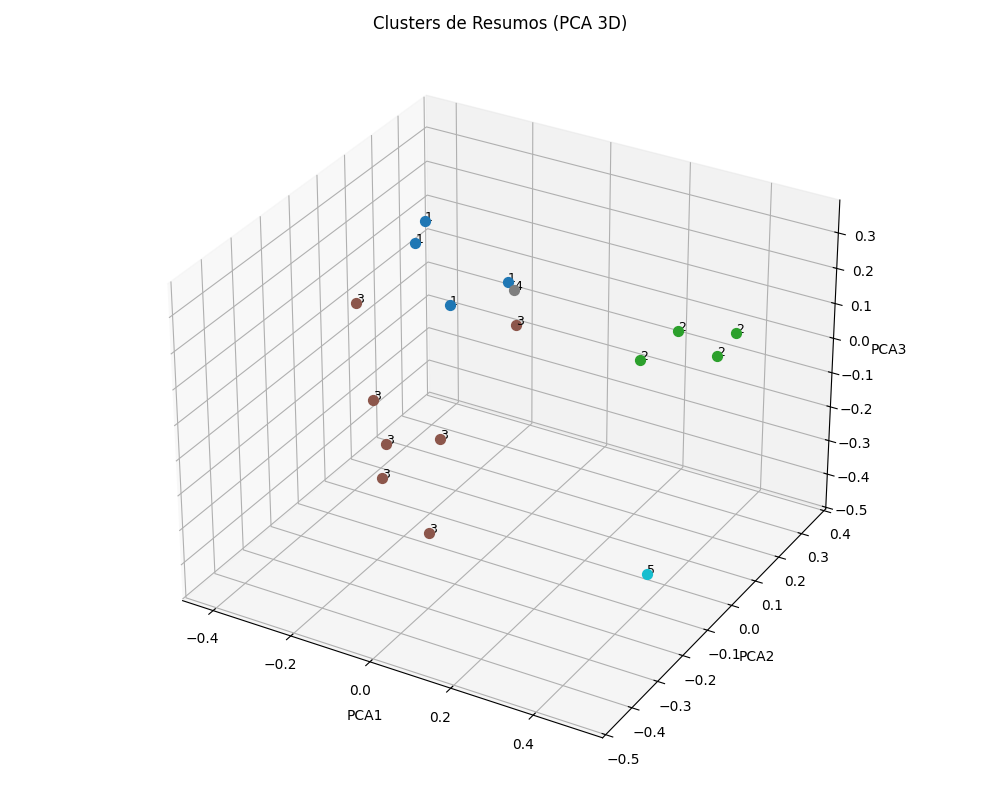
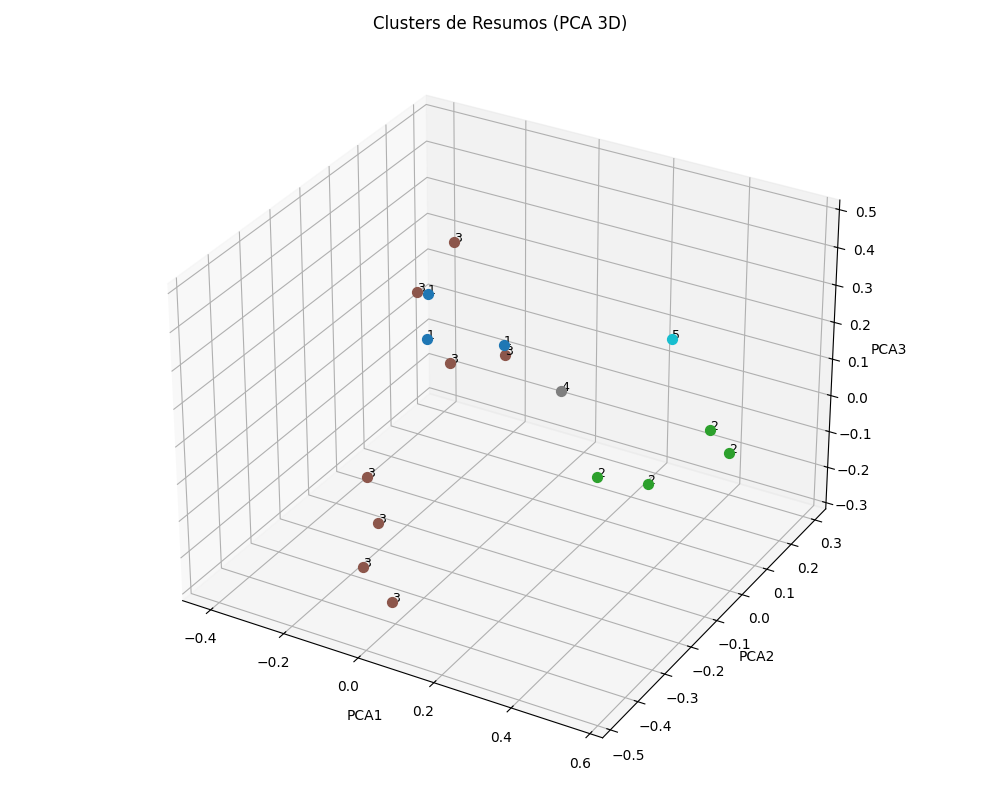
feat(streamlit): adiciona front com mapas mentais interativos e PCA

diff --git a/app.py b/app.py
@@ -1,0 +1,152 @@
+import streamlit as st
+import os
+import tempfile
+import fitz  # PyMuPDF
+from io import BytesIO
+from streamlit_markmap import markmap  # mapa mental interativo
+from relembraq import resumidor_completo
+
+# Configuração inicial do Streamlit
+st.set_page_config(page_title="RelembraQ", page_icon="🧠", layout="wide")
+
+# Cabeçalho com logo e título lado a lado
+col1, col2 = st.columns([1, 4])
+with col1:
+    st.image("img/logo.jpg", width=100)  # coloque o logo na mesma pasta do app ou ajuste o caminho
+with col2:
+    st.markdown("""
+        <h3 style="
+            color: #0f111a; 
+            font-weight: 500; 
+            line-height: 1.3; 
+            margin-top: 0;
+        ">
+            🧠 RelembraQ — Seu Resumidor Inteligente de PDFs
+        </h3>
+        <p style="
+            color: #555555; 
+            font-size: 16px; 
+            margin-top: 5px;
+        ">
+            O mais novo produto do grupoQ para agilizar seus estudos e organizar informações de forma inteligente.
+        </p>
+    """, unsafe_allow_html=True)
+    
+# Upload de arquivos
+st.sidebar.header("📂 Upload dos PDFs")
+uploaded_files = st.sidebar.file_uploader(
+    "Selecione seus PDFs", type=["pdf"], accept_multiple_files=True
+)
+
+# Parâmetros ajustáveis
+st.sidebar.header("⚙ Configurações")
+chunk_size = st.sidebar.slider("Tamanho do Chunk (palavras)", 50, 500, 150, 50)
+n_clusters = st.sidebar.slider("Número de Clusters", 2, 10, 5, 1)
+
+# Criar diretórios temporários
+TEMP_PDF_DIR = tempfile.mkdtemp()
+os.makedirs("outputs", exist_ok=True)
+
+# Salvar PDFs enviados
+pdf_paths = []
+if uploaded_files:
+    for uploaded_file in uploaded_files:
+        caminho = os.path.join(TEMP_PDF_DIR, uploaded_file.name)
+        with open(caminho, "wb") as f:
+            f.write(uploaded_file.getbuffer())
+        pdf_paths.append(caminho)
+    st.success(f"{len(uploaded_files)} arquivo(s) salvo(s) temporariamente para processamento.")
+
+# Função para extrair texto apenas dos PDFs selecionados
+def extrair_texto_selecionados(paths):
+    texto_total = ""
+    for caminho in paths:
+        doc = fitz.open(caminho)
+        for page in doc:
+            texto_total += page.get_text()
+    return texto_total
+
+# Botão para rodar o resumidor
+if st.button("🚀 Rodar Resumidor"):
+    if not uploaded_files:
+        st.warning("⚠ Por favor, envie pelo menos um PDF antes de rodar.")
+    else:
+        st.info("⏳ Processando PDFs, isso pode levar alguns minutos...")
+
+        # Extrai texto dos PDFs selecionados
+        texto = extrair_texto_selecionados(pdf_paths)
+
+        # Divide em chunks
+        from models.chunking import chunk_text
+        chunks = chunk_text(texto, chunk_size=chunk_size)
+        st.write(f"Total de chunks a processar: {len(chunks)}")
+
+        todos_resumos = []
+        memoria = []
+
+        progress_bar = st.progress(0)
+        status_text = st.empty()
+
+        # Processa cada chunk com barra de progresso
+        from controllers.agent import gerar_resumos
+        for i, chunk in enumerate(chunks, start=1):
+            status_text.text(f"Processando chunk {i}/{len(chunks)}...")
+            resumos, memoria = gerar_resumos(chunk, memoria)
+            todos_resumos.extend(resumos)
+            progress_bar.progress(i / len(chunks))
+
+        status_text.text("✅ Processamento concluído!")
+
+        # Remove resumos duplicados
+        resumos_unicos = list({r['resumo']: r for r in todos_resumos}.values())
+
+        # Salva JSON
+        from views.output import salvar_json
+        salvar_json(resumos_unicos, "outputs/resumo_aula.json")
+
+        # Clusterização
+        from controllers.ml_utils import cluster_sentencas
+        sentencas = [r['resumo'] for r in resumos_unicos]
+        clusters, labels, embeddings = cluster_sentencas(sentencas, n_clusters=n_clusters, return_embeddings=True)
+
+        st.success("✅ Resumos e Clusters gerados com sucesso!")
+
+        # Mostrar clusters no app
+        for cluster_id, sentencas_cluster in clusters.items():
+            with st.expander(f"Tópico {cluster_id+1}"):
+                for s in sentencas_cluster:
+                    st.write(f"- {s}")
+
+        # Mostrar mapa mental interativo
+        from controllers.mindmap import gerar_mapa_mental_textual_clusters
+        mapa_textual = gerar_mapa_mental_textual_clusters(clusters)
+        st.subheader("🧠 Mapa Mental Interativo")
+        markmap(mapa_textual)
+
+        # Mostrar arquivos gerados
+        st.subheader("📄 Arquivos Gerados")
+        st.write("- `outputs/resumo_aula.json`")
+
+        # Mostrar gráfico 3D
+        st.subheader("📊 Gráfico 3D de Clusters")
+        import matplotlib.pyplot as plt
+        from mpl_toolkits.mplot3d import Axes3D
+        from sklearn.decomposition import PCA
+
+        pca = PCA(n_components=3)
+        coords = pca.fit_transform(embeddings)
+        fig = plt.figure(figsize=(10, 8))
+        ax = fig.add_subplot(111, projection='3d')
+        n_clusters_ = len(set(labels))
+        cmap = plt.colormaps['tab10']
+        colors = [cmap(i) for i in range(n_clusters_)]  # lista de cores
+        for i, (coord, label) in enumerate(zip(coords, labels)):
+            ax.scatter(coord[0], coord[1], coord[2], color=colors[label], s=50)
+            ax.text(coord[0], coord[1], coord[2], str(label+1), fontsize=9)
+        ax.set_title("Clusters de Resumos (PCA 3D)")
+        ax.set_xlabel("PCA1")
+        ax.set_ylabel("PCA2")
+        ax.set_zlabel("PCA3")
+        st.pyplot(fig)
+
+        st.info("📌 PCA 3D mostra como os resumos estão distribuídos nos clusters. Cada ponto é um resumo, cores diferentes representam clusters distintos.")

diff --git a/controllers/mindmap.py b/controllers/mindmap.py
@@ -42,4 +42,4 @@ def gerar_mapa_mental_visual_clusters(clusters, output_path):
             dot.edge(parent_node, child_node)
 
     # Renderiza e salva o gráfico em PNG, removendo arquivos temporários
-    dot.render(output_path, format='png', cleanup=True)
+    dot.render(output_path.replace(".png", ""), format="png", cleanup=True)
